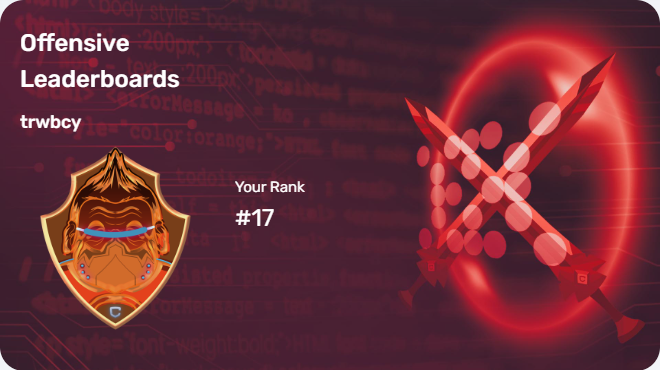
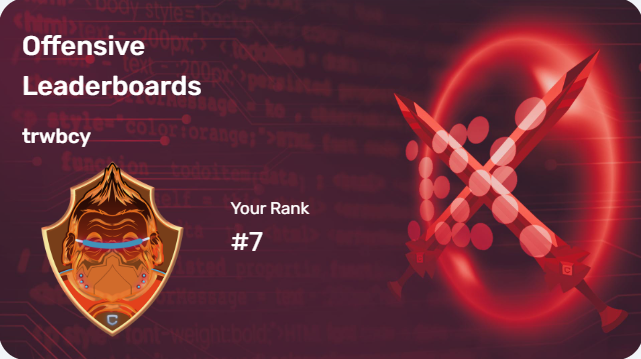
content: add Labyrinth writeup, update offensive rank #17->#7 and stats
- writeups.js: add Labyrinth offensive writeup (SMB enum -> ffuf bruteforce ->
  .phtml upload RCE -> CVE-2023-2640 GameOver(lay) to root).
- Evidence Wall (What I Pwned): rooted 34->36, total stamp 63->65 to match the
  writeup counts (E-LEET + Labyrinth offensive additions).
- Offensive rank corrected #17 -> #7 in the What I Hunt metric, Evidence Wall
  rank, and image alt; refreshed img/rank-red.png leaderboard screenshot.

diff --git a/index.html b/index.html
@@ -161,7 +161,7 @@
                             <span class="target-mark">⊕</span>
                             <span class="target-label">HACKTRACE_OFFENSIVE</span>
                             <span class="target-leader"></span>
-                            <span class="target-value">#17</span>
+                            <span class="target-value">#7</span>
                             <span class="target-tag">LOCK</span>
                         </div>
                         <div class="target target-vol">
@@ -497,17 +497,17 @@
                         <span><span class="ew-dot"></span>EVIDENCE_02 — CAPTURED</span>
                         <span class="ew-filename">offensive_rank.png</span>
                     </div>
-                    <img class="ew-capture-img" src="img/rank-red.png" alt="Hacktrace offensive leaderboard — TRWBCY ranked #17 in Indonesia">
+                    <img class="ew-capture-img" src="img/rank-red.png" alt="Hacktrace offensive leaderboard — TRWBCY ranked #7 in Indonesia">
                     <figcaption class="ew-capture-footer">
                         <span class="ew-rank-group">
-                            <span class="ew-rank">#17</span>
+                            <span class="ew-rank">#7</span>
                             <span class="ew-rank-label">OFFENSIVE — INDONESIA 🇮🇩</span>
                         </span>
                         <span class="ew-lp">MAX LP</span>
                     </figcaption>
                 </figure>
                 <div class="ew-stat ew-red">
-                    <div class="ew-stat-num">34</div>
+                    <div class="ew-stat-num">36</div>
                     <div class="ew-stat-label">MATCHES ROOTED</div>
                 </div>
             </div>
@@ -517,7 +517,7 @@
         <div class="ew-string ew-string-right" aria-hidden="true"></div>
 
         <div class="ew-stamp">
-            <div class="ew-stamp-num" data-target="63">63</div>
+            <div class="ew-stamp-num" data-target="65">65</div>
             <div class="ew-stamp-label">MACHINES — ROOTED</div>
         </div>
 

diff --git a/cat-etc-shadow/writeups.js b/cat-etc-shadow/writeups.js
@@ -35,6 +35,7 @@ const writeups = [
     { title: "Oblivion", type: "red", desc: "APK RE + AES SQLi + Wing FTP Lua Injection → Root", url: "https://drive.google.com/file/d/15DUQiZKhWZXaMsfrd4imKxKzkvIdIvsZ/view?usp=sharing" },
     { title: "NightForge", type: "red", desc: "SMB Guest Credential Leak + PrintNightmare (CVE-2021-1675) PrivEsc", url: "https://drive.google.com/file/d/1hS_sq4ej0_fj04NseNsC7ii4ESyrwq5t/view?usp=drive_link" },
     { title: "E-LEET", type: "red", desc: "wpDiscuz RCE (CVE-2020-24186) + Password Reuse → Root", url: "https://drive.google.com/file/d/1_jVqCQ-AAvr1zspGfVlTF0xt65RdW-15/view?usp=drive_link" },
+    { title: "Labyrinth", type: "red", desc: "SMB Enum + ffuf Login Bruteforce + .phtml Upload RCE + CVE-2023-2640 GameOver(lay) → Root", url: "https://drive.google.com/file/d/1Q-OTMlAo12EnVzO8DYZ0D15PgpmBXhws/view?usp=sharing" },
     { title: "Deviasi", type: "blue", desc: "Deep Log Analysis & IOCs", url: "https://nickel-bedbug-8cc.notion.site/Deviasi-Hacktrace-Ranges-2a0416e03a1380babf06e961fa506f1a" },
     { title: "Undercover", type: "blue", desc: "Binary Investigation APT", url: "https://nickel-bedbug-8cc.notion.site/Undercover-Hacktrace-Ranges-2a1416e03a1380028d39e07d1298f543" },
     { title: "BluuShell", type: "blue", desc: "Malicious DOCX Forensics", url: "https://nickel-bedbug-8cc.notion.site/BluuShell-Hacktrace-Ranges-2a4416e03a13809e98c5f10d33af37e0" },